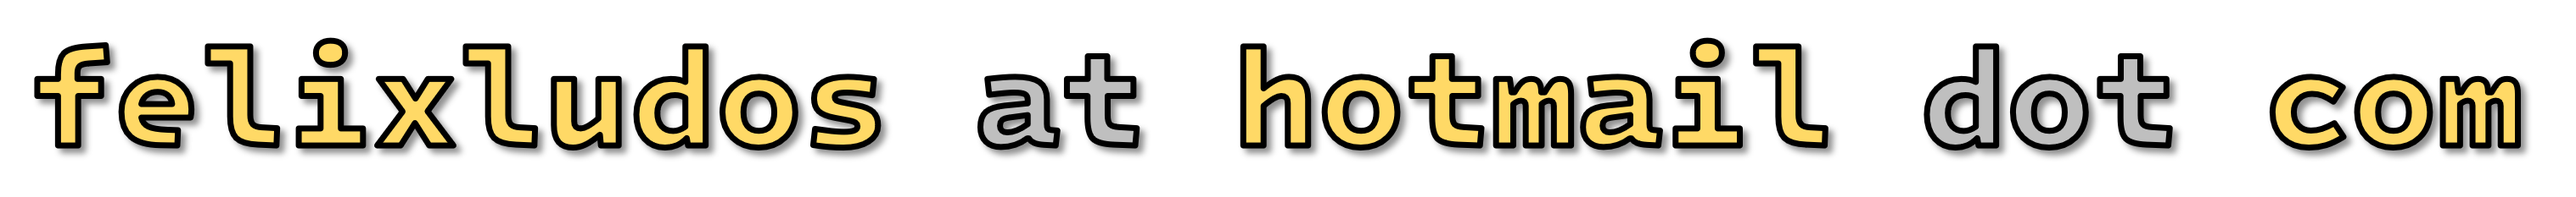
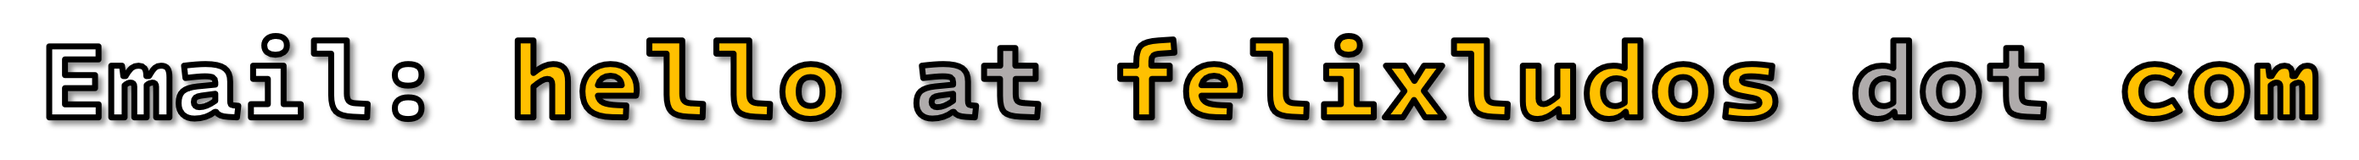
chore: Replace email-info.png with email.png in home.md for updated contact image

diff --git a/content/home.md b/content/home.md
@@ -1,5 +1,5 @@
 
-<img class="contact-email" src="/assets/email-info.png" height="40" alt="Email" align="center">
+<img class="contact-email" src="/assets/email.png" height="40" alt="Email" align="center">
 
 <img class="profile-image" src="/assets/profile.jpg" alt="Profile" width="180" align="right"/>
 
